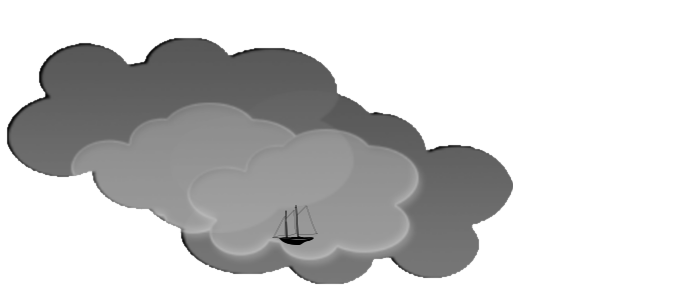
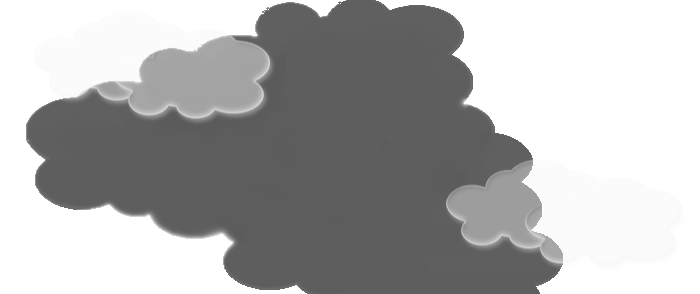
remove tmp files and change clouds

diff --git a/stylesheets/ocean.css b/stylesheets/ocean.css
@@ -27,7 +27,7 @@ div#clouds-left {
 div#clouds-right {
   position:absolute;
   top:-42px;
-  left:570px;
+  left:530px;
   z-index:1;
 }
 
